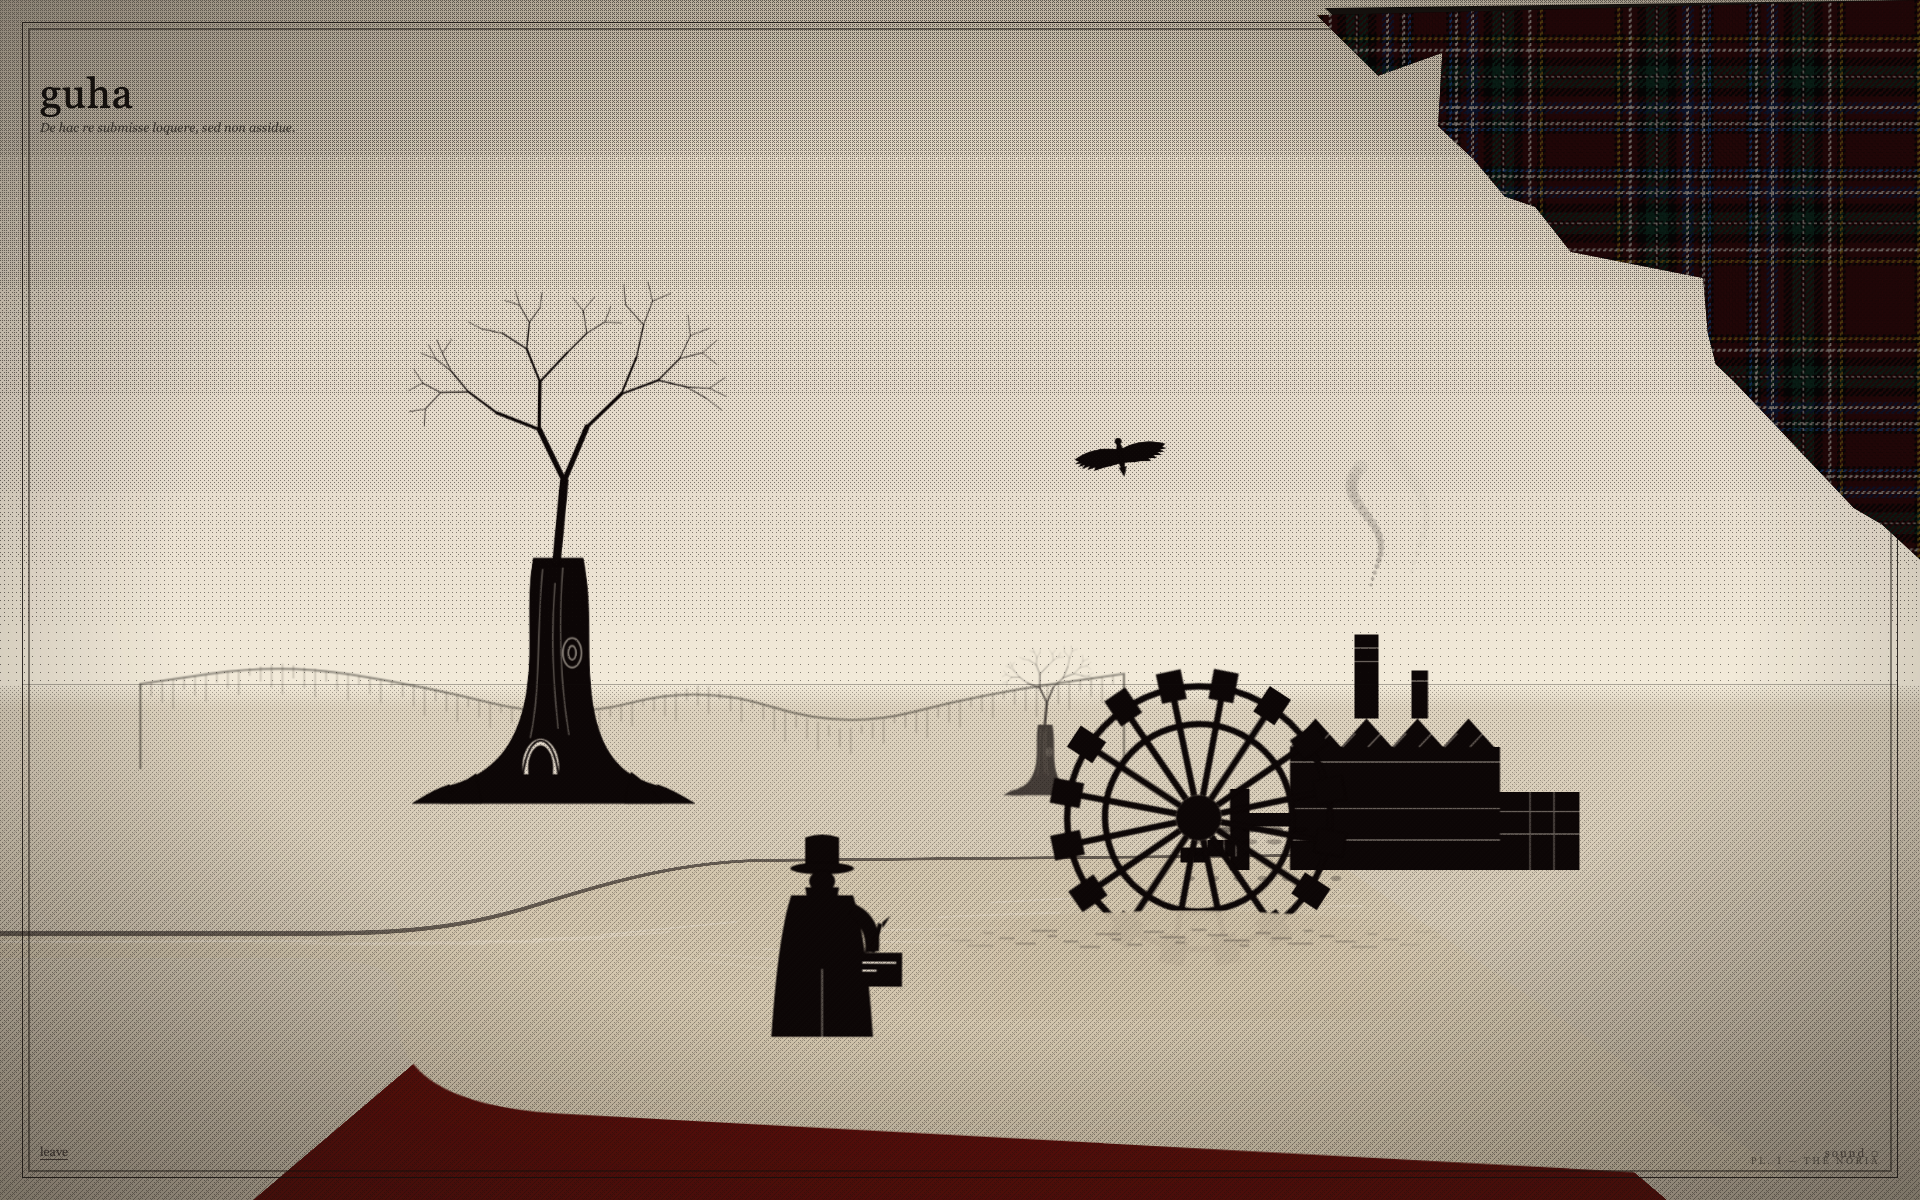
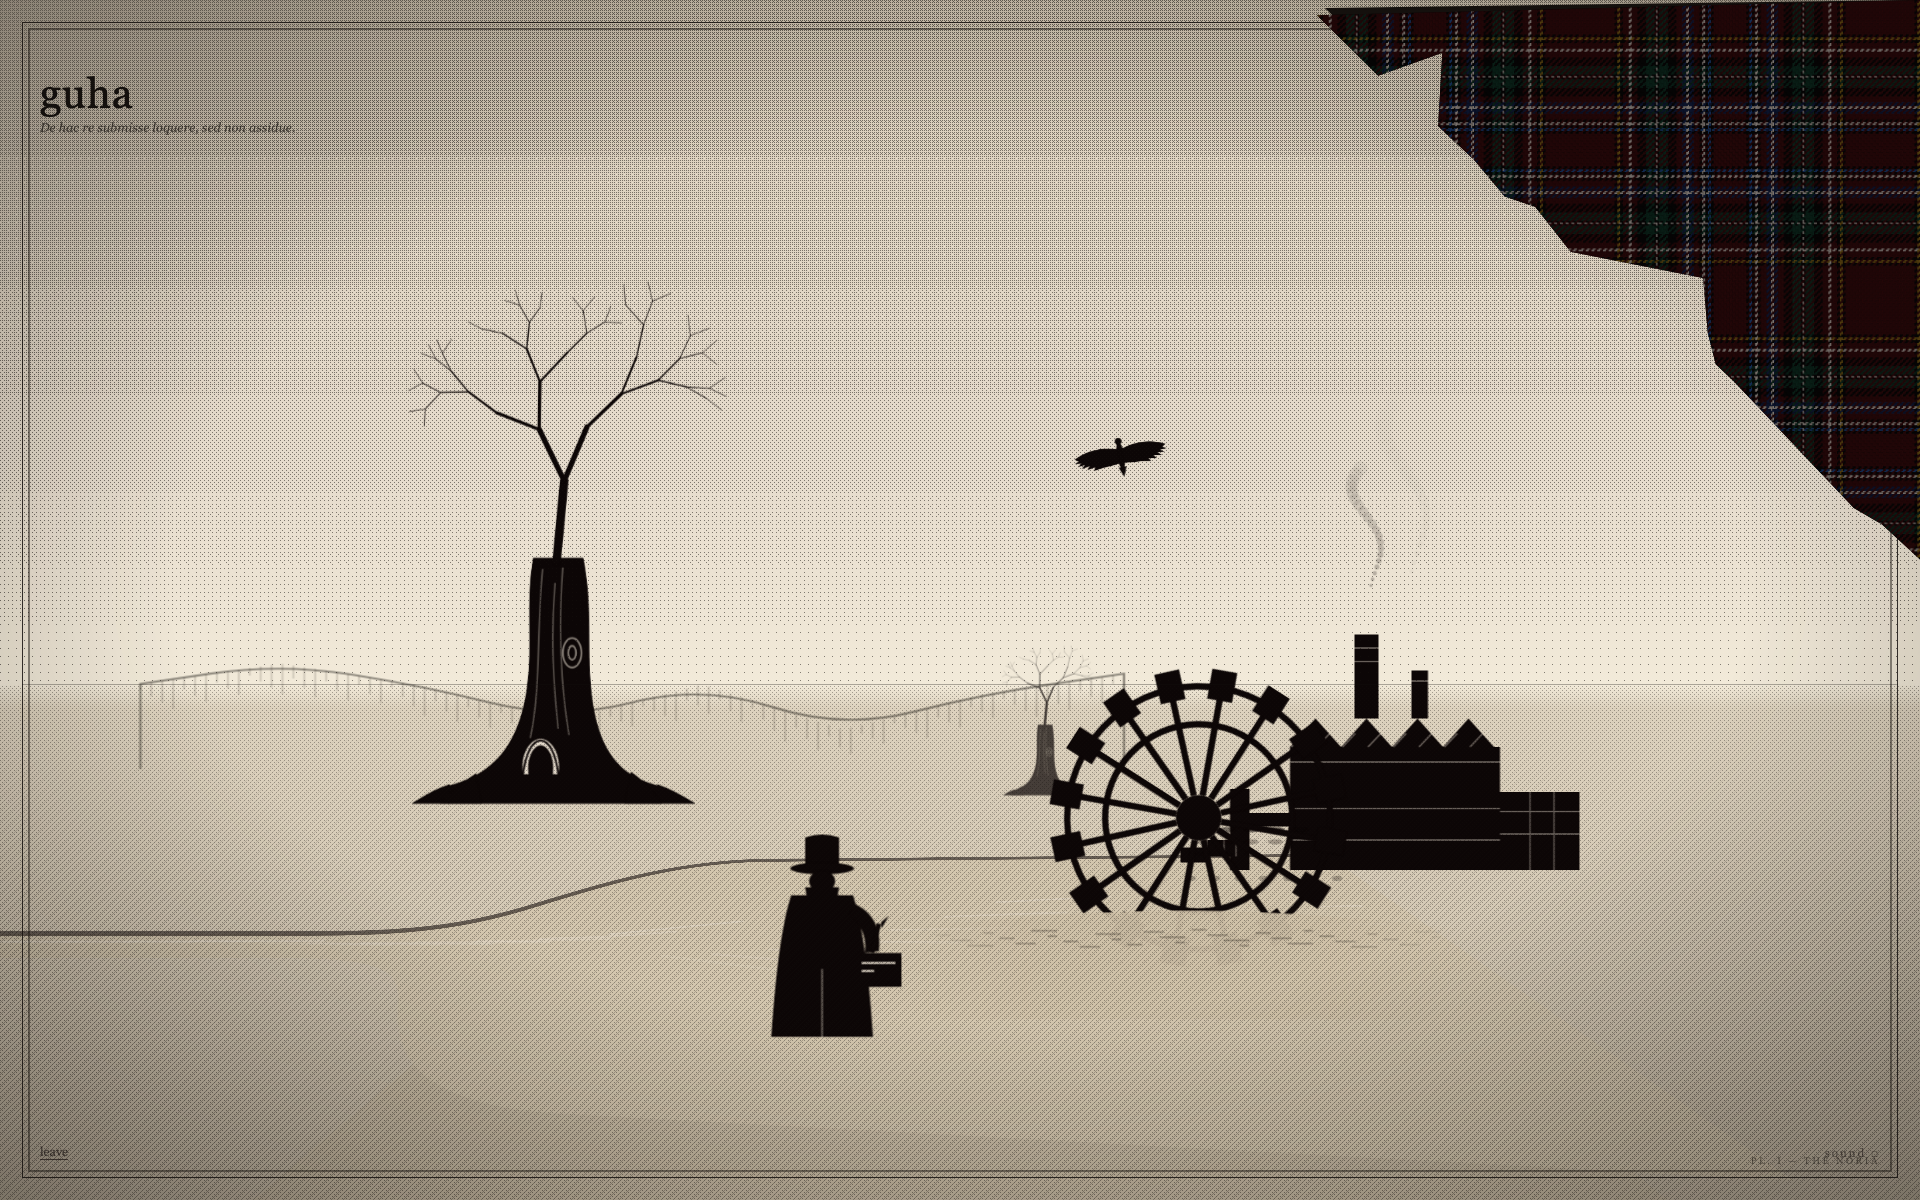
variant(v-bone): map every remaining red literal to its bone equivalent

Changed region(s): [[0.125, 0.8942, 0.875, 1.0], [0.5625, 0.5858, 0.6875, 0.74]]

diff --git a/guhub/src/pages/Noria.css b/guhub/src/pages/Noria.css
@@ -87,7 +87,7 @@
 .groundFace {
   width: 4200px;
   height: 2800px;
-  background: #5a0d09;
+  background: #cabda6;
 }
 
 .riverPlane { z-index: 0; }
@@ -567,7 +567,7 @@
 
 .artColossus { width: 400px; height: 760px; }
 
-.submerged { color: #4a0d0a; opacity: 0.7; }
+.submerged { color: #b8ab93; opacity: 0.7; }
 .artDeepMass { width: 600px; height: 90px; }
 
 /* it surfaces, holds, and is gone before you are sure */
